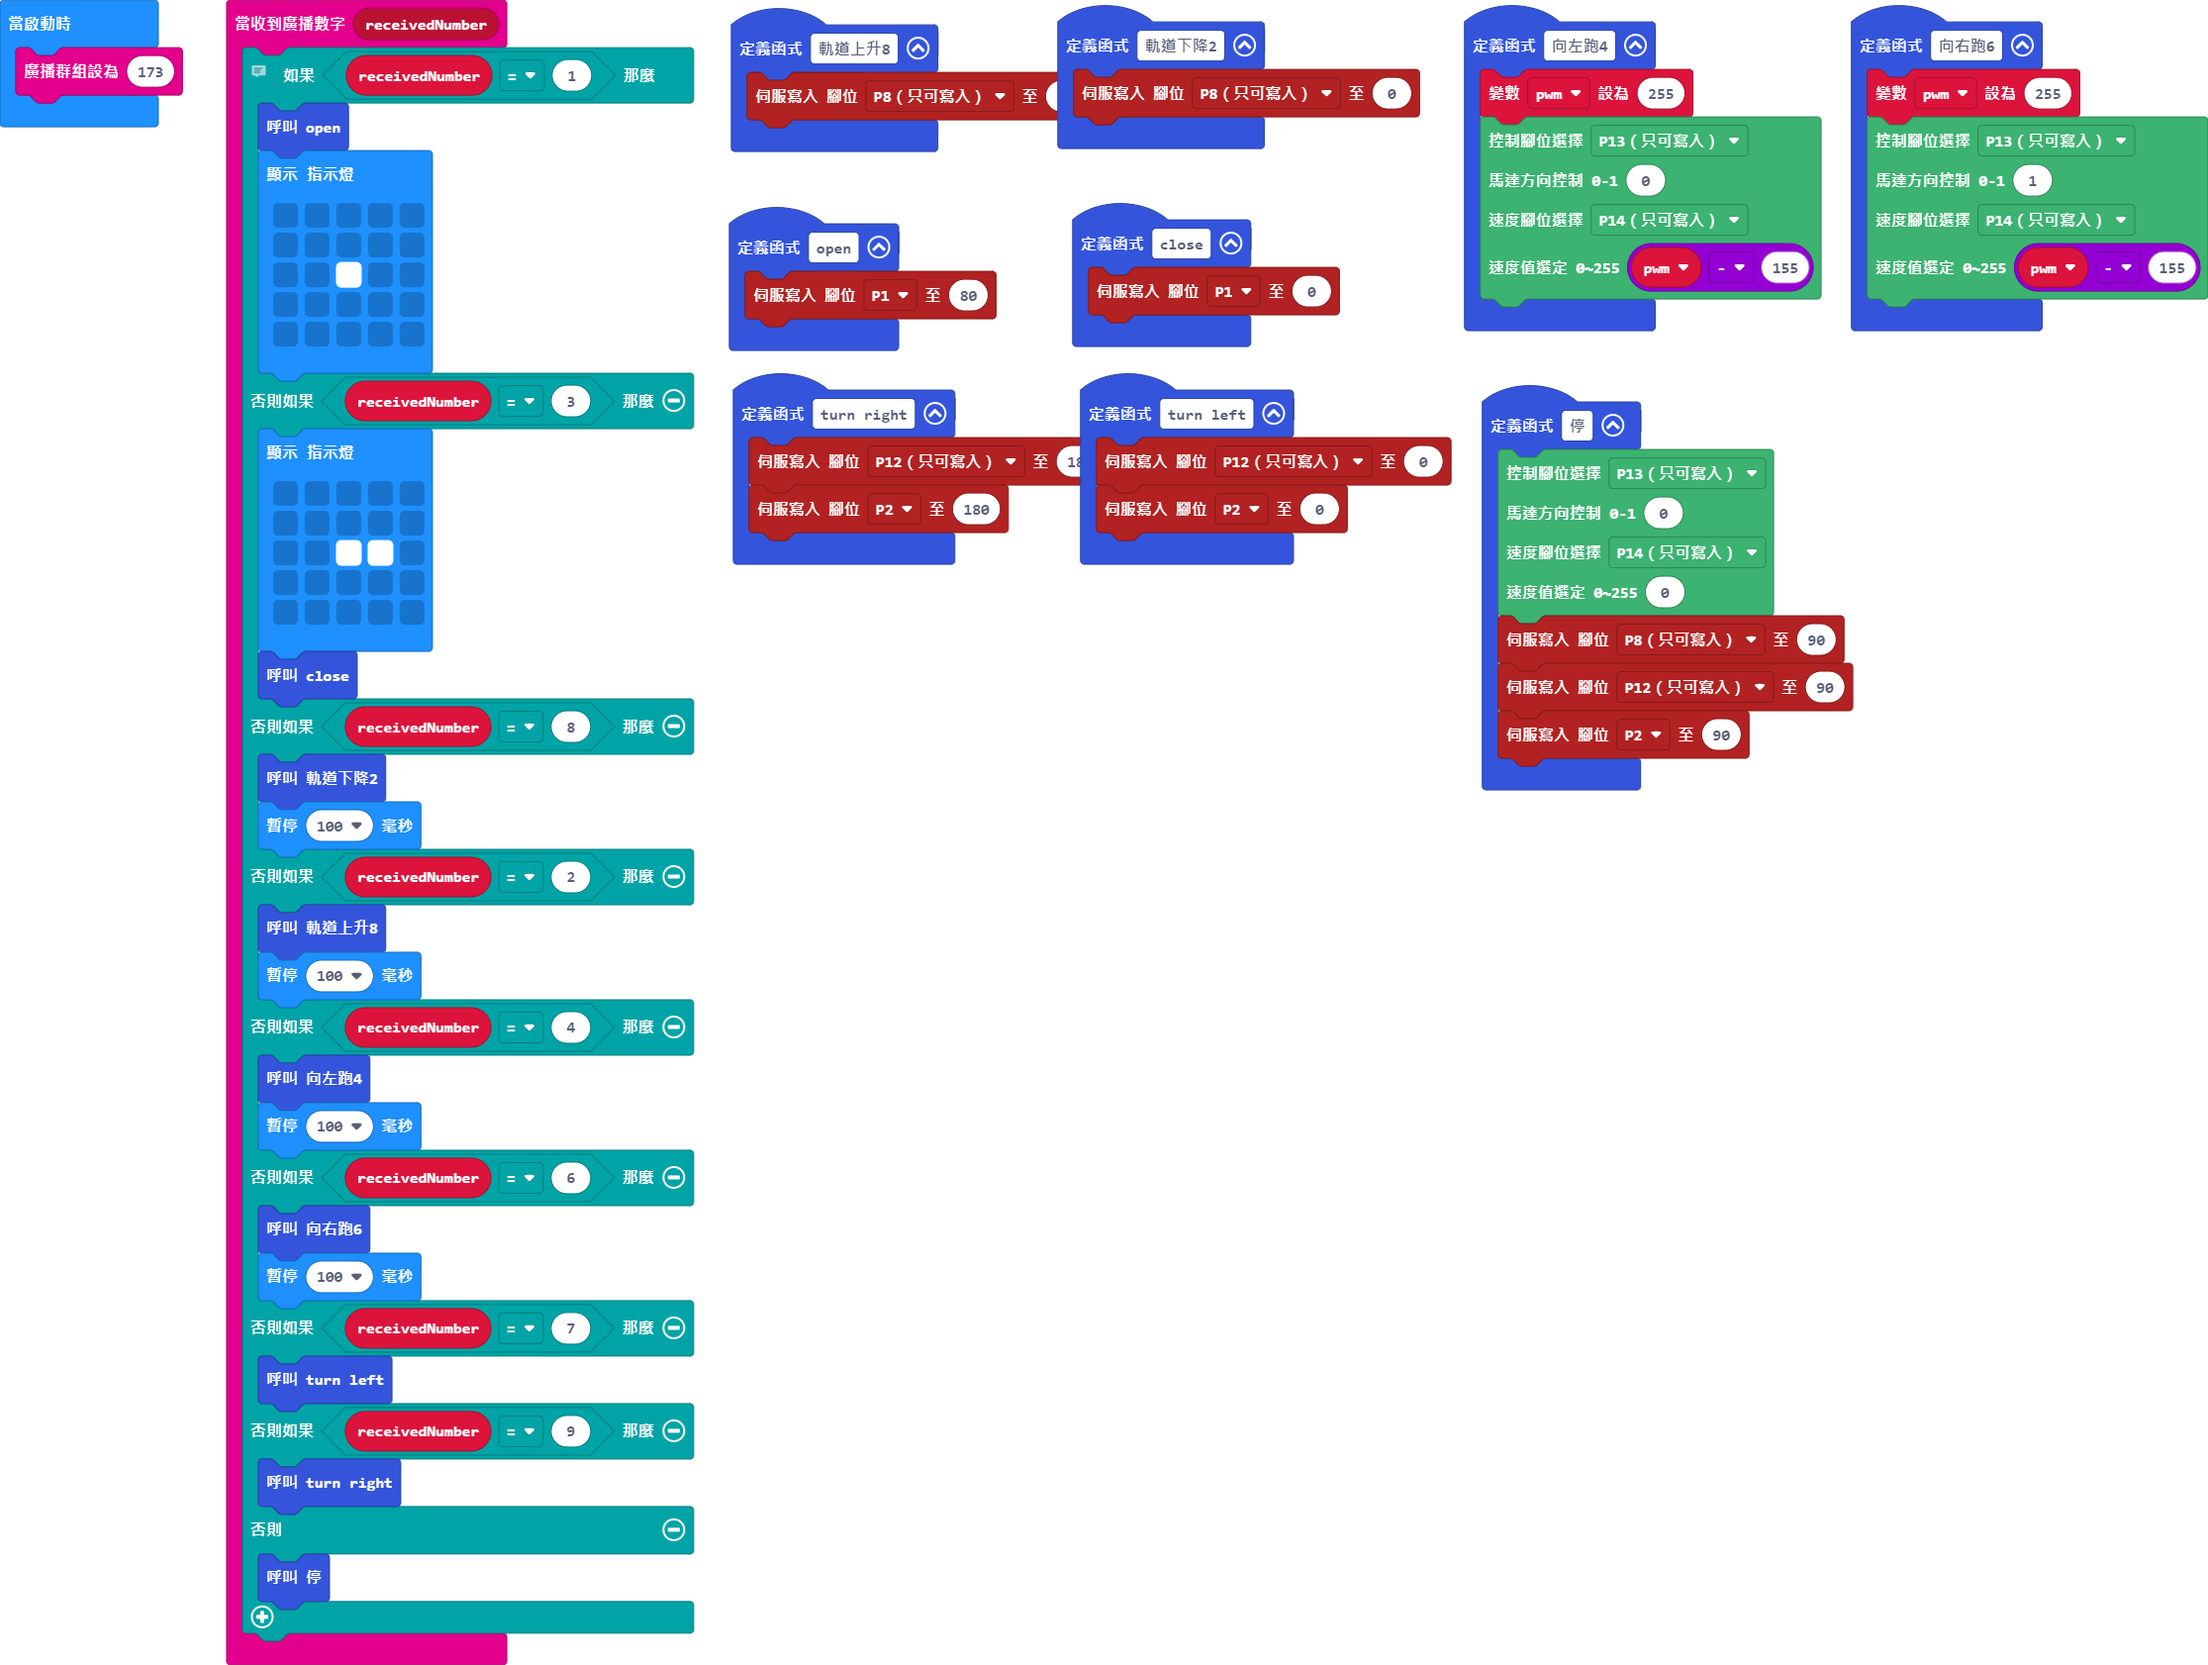
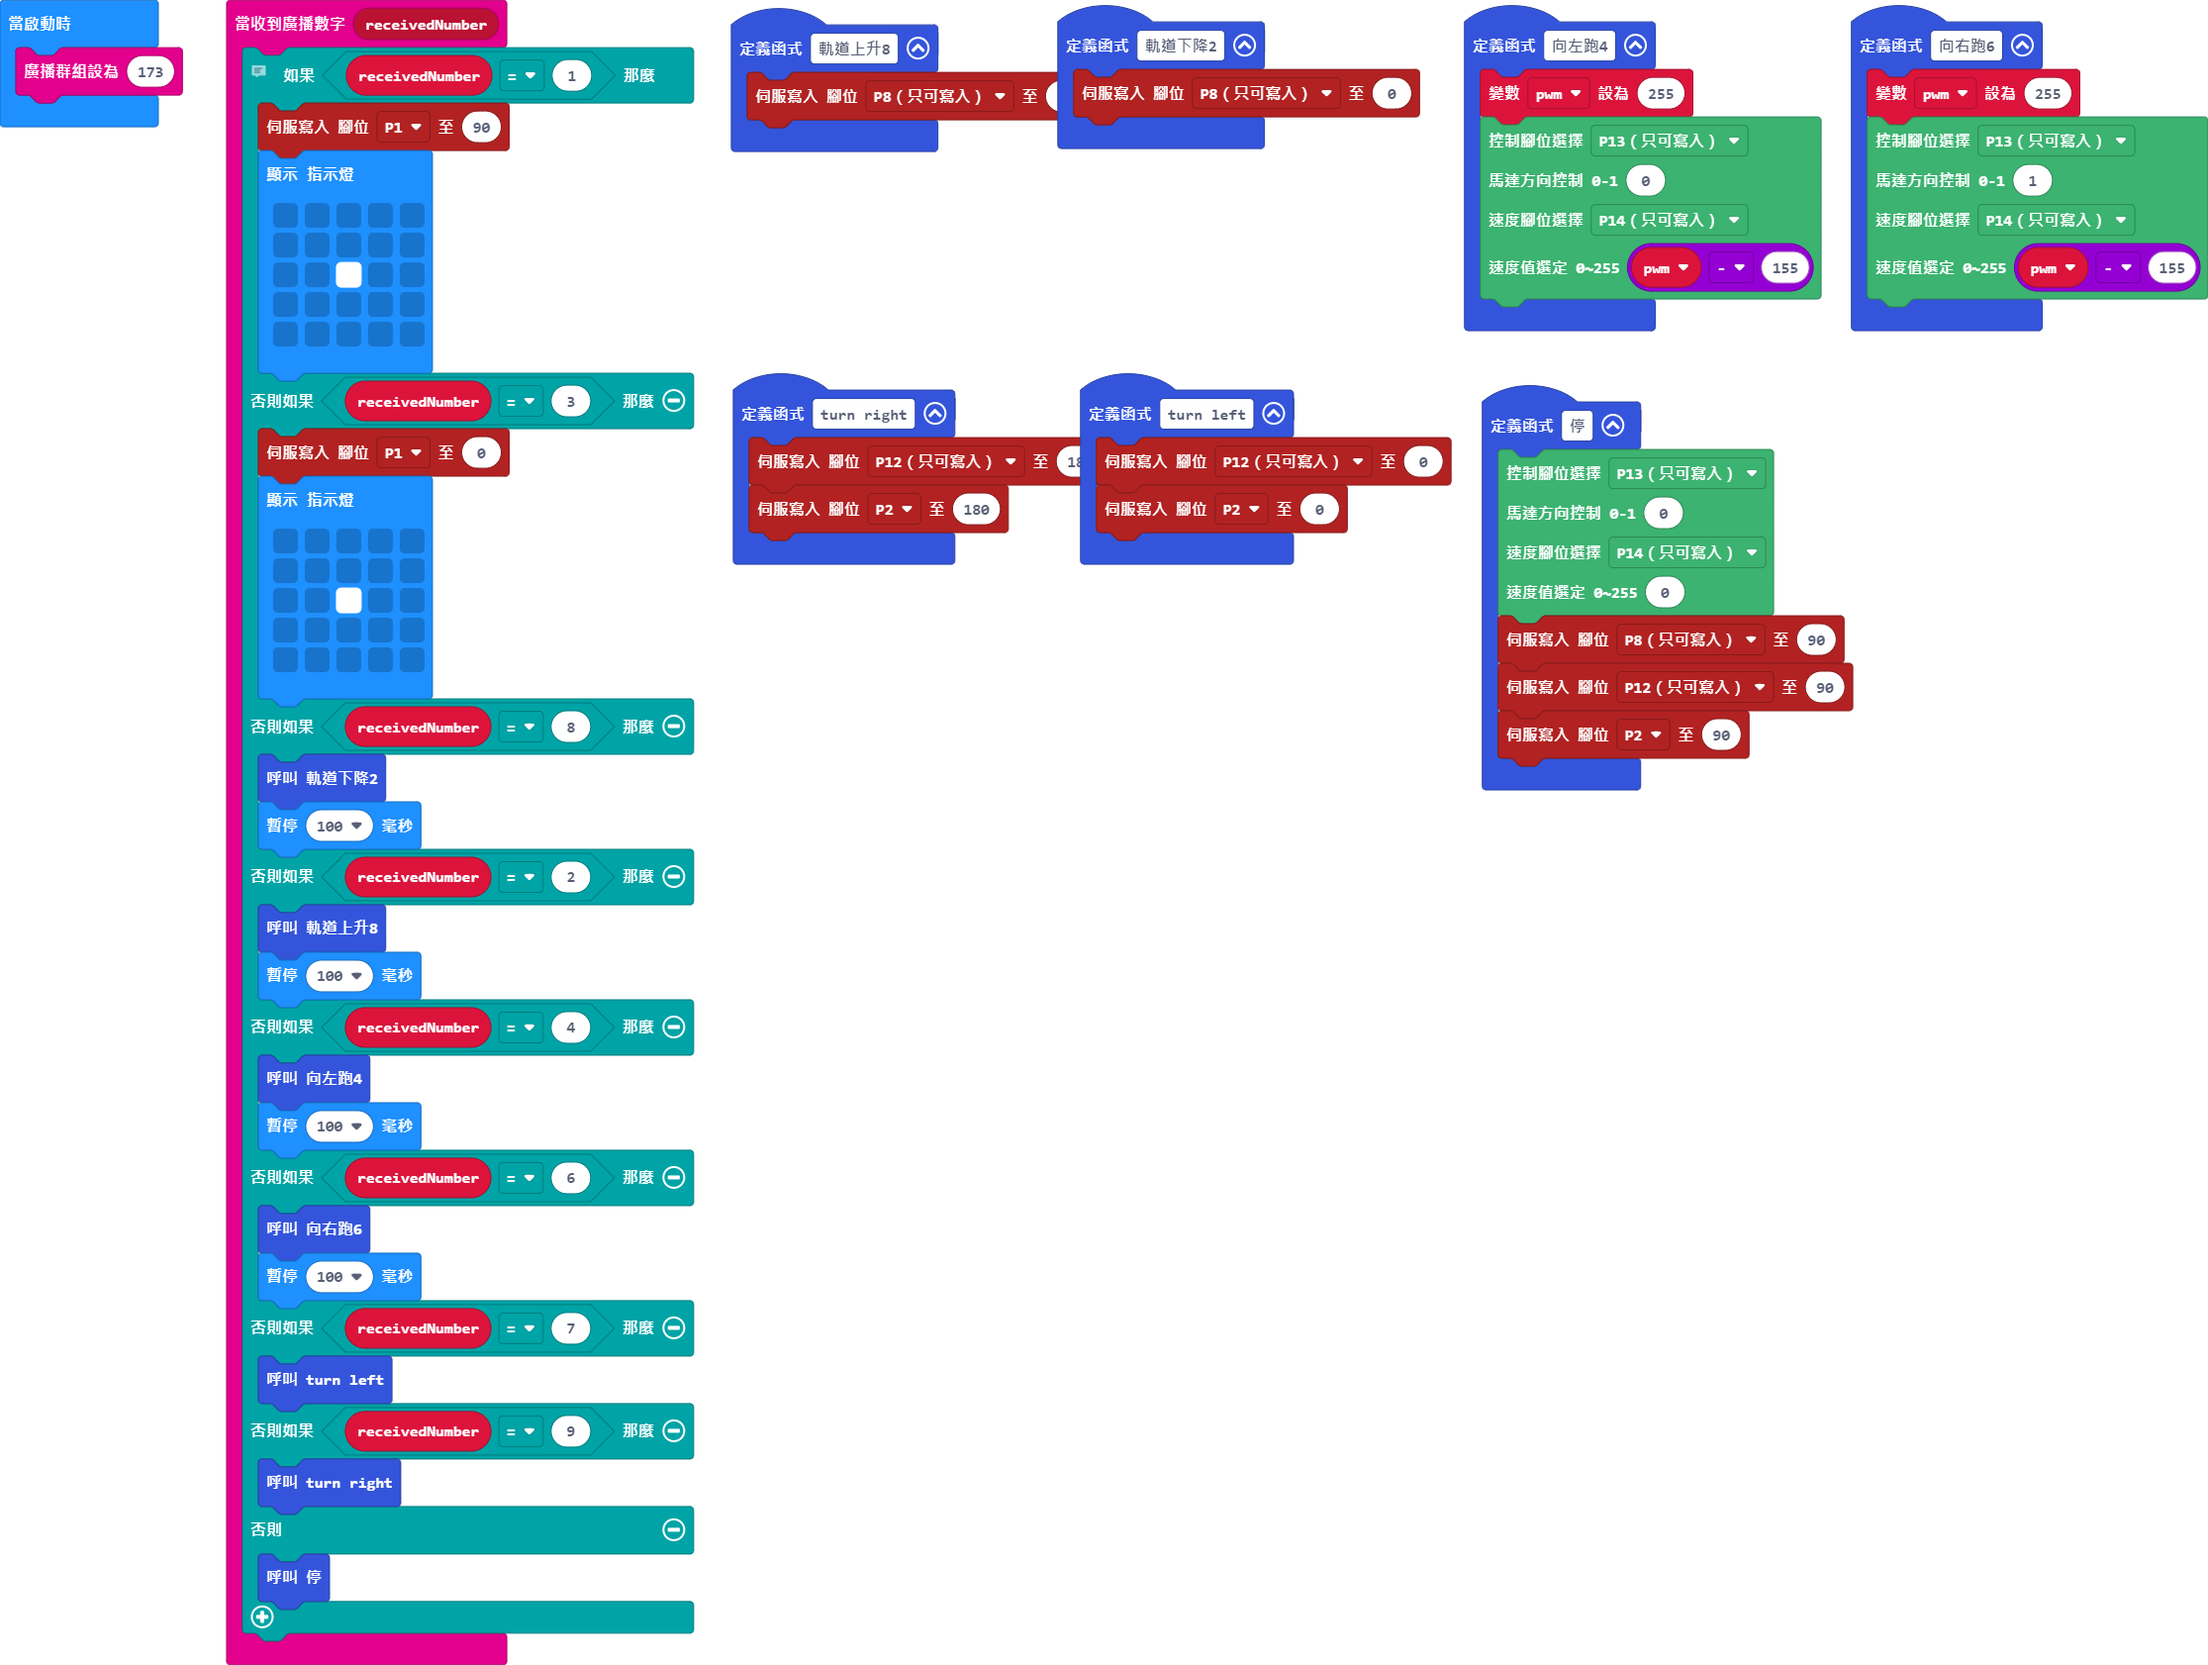
更新 main.blocks, main.ts

Changed region(s): [[0.3093, 0.1237, 0.6186, 0.2164], [0.0928, 0.2473, 0.2474, 0.4328], [0.0928, 0.0618, 0.2474, 0.0927]]

diff --git a/main.ts b/main.ts
@@ -1,6 +1,3 @@
-function open () {
-    pins.servoWritePin(AnalogPin.P1, 80)
-}
 radio.onReceivedNumber(function (receivedNumber) {
     // 1 x
     // 3 x
@@ -11,7 +8,7 @@ radio.onReceivedNumber(function (receivedNumber) {
     // 4 向左跑
     // 6 向右跑
     if (receivedNumber == 1) {
-        open()
+        pins.servoWritePin(AnalogPin.P1, 90)
         basic.showLeds(`
             . . . . .
             . . . . .
@@ -20,14 +17,14 @@ radio.onReceivedNumber(function (receivedNumber) {
             . . . . .
             `)
     } else if (receivedNumber == 3) {
+        pins.servoWritePin(AnalogPin.P1, 0)
         basic.showLeds(`
             . . . . .
             . . . . .
-            . . # # .
+            . . # . .
             . . . . .
             . . . . .
             `)
-        close()
     } else if (receivedNumber == 8) {
         軌道下降2()
         basic.pause(100)
@@ -63,9 +60,6 @@ function 向左跑4 () {
     AnalogPin.P14,
     pwm - 155
     )
-}
-function close () {
-    pins.servoWritePin(AnalogPin.P1, 0)
 }
 function 向右跑6 () {
     pwm = 255
